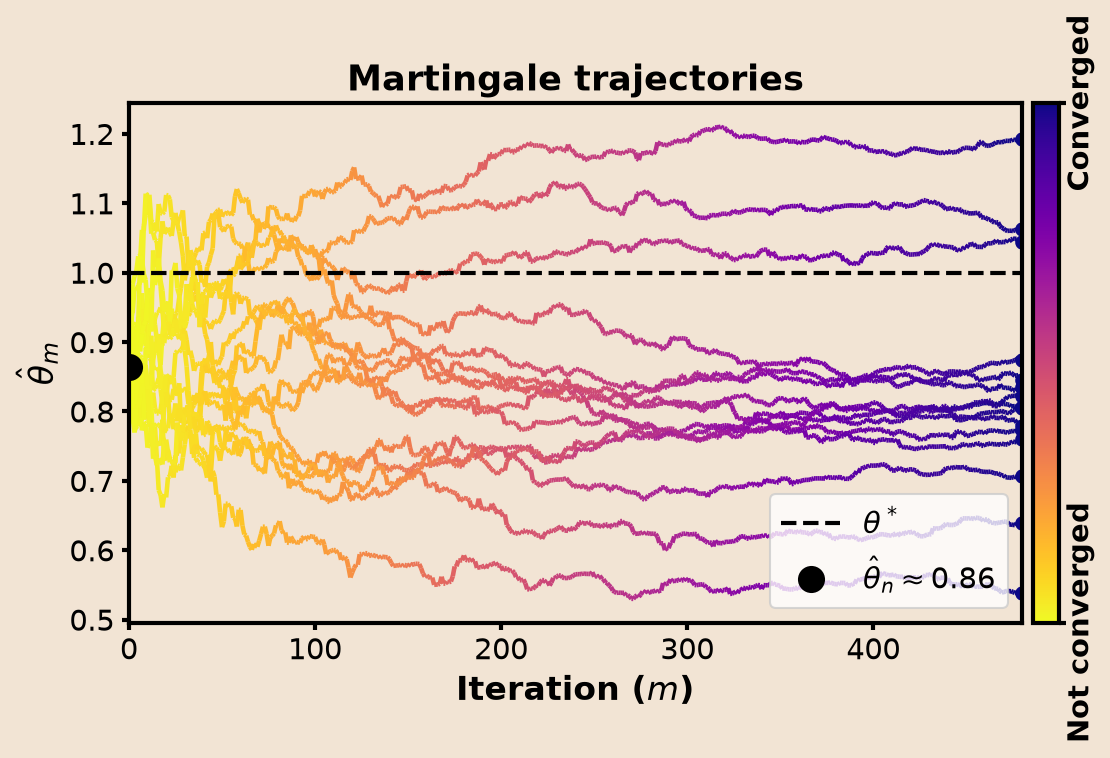
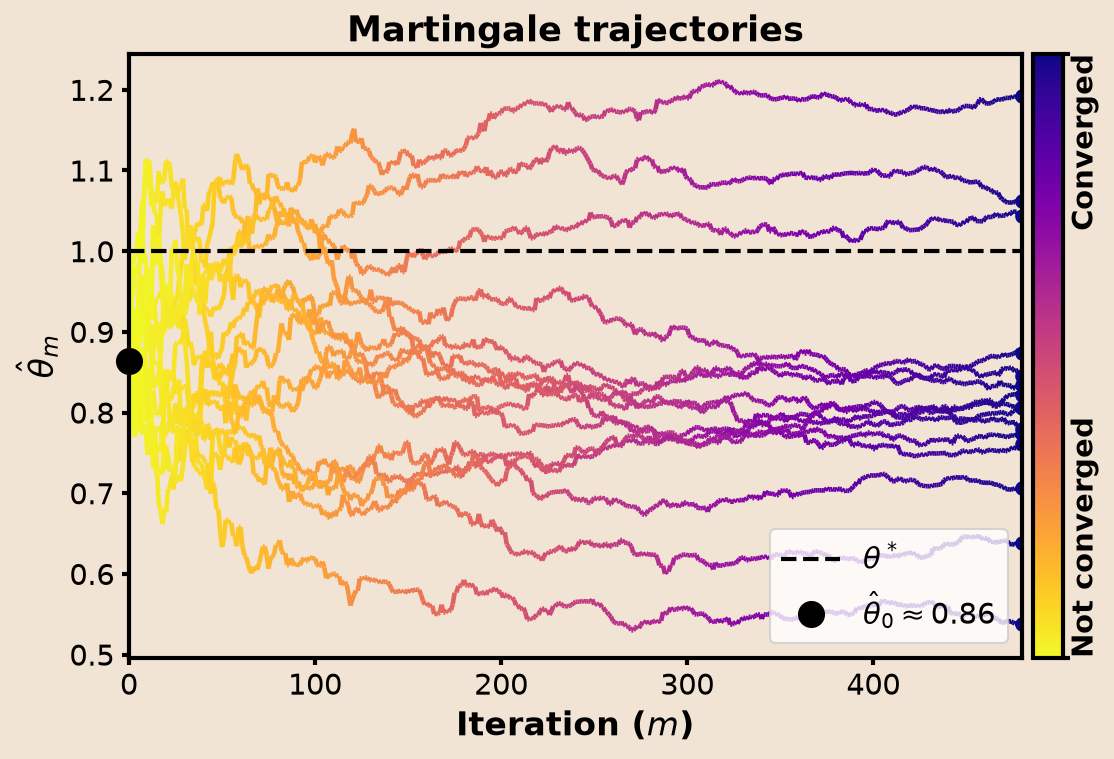
Fix initial-marker clipping and colorbar label overflow
- clip_on=False on the theta_hat_0 marker so it isn't cut off by the
  left axes spine at iteration 0.
- Colorbar tick labels now anchor toward the bar's interior (va="bottom"
  for the bottom label, va="top" for the top one) instead of centering
  on the tick, so they no longer poke past the top/bottom edge and
  inflate the saved figure with blank margin.
- Legend label updated to theta-hat_0, matching the 0-indexed iteration
  axis.

Changed region(s): [[0.0, 0.0, 1.0, 1.0]]

diff --git a/scripts/plot_results.py b/scripts/plot_results.py
@@ -73,15 +73,21 @@ def plot_trajectories(theta_traj, x_traj, theta_star, S_n, n, M, num_plot, path)
     ax.axhline(theta_star, color="black", linestyle="--", linewidth=2, label=r"$\theta^*$")
 
     theta_hat_n = float(theta_traj[0, 0])
-    ax.plot(0, theta_hat_n, "o", color="black", markersize=12, zorder=5,
-            label=rf"$\hat\theta_n \approx {theta_hat_n:.2f}$")
+    ax.plot(0, theta_hat_n, "o", color="black", markersize=12, zorder=5, clip_on=False,
+            label=rf"$\hat\theta_0 \approx {theta_hat_n:.2f}$")
 
     sm = plt.cm.ScalarMappable(cmap=cmap, norm=Normalize(0, 1))
     sm.set_array([])
     cbar = fig.colorbar(sm, ax=ax, pad=0.01)
     cbar.set_ticks([0, 1])
-    cbar.ax.set_yticklabels(["Not converged", "Converged"], rotation=90, va="center",
+    cbar.ax.set_yticklabels(["Not converged", "Converged"], rotation=90,
                              fontsize=14, fontweight="bold")
+    # Anchor each label toward the bar's interior instead of centering on the
+    # tick, so they don't poke past the top/bottom edge and inflate the
+    # saved figure's bounding box with blank margin.
+    labels = cbar.ax.get_yticklabels()
+    labels[0].set_va("bottom")
+    labels[1].set_va("top")
     cbar.ax.tick_params(width=2.0, pad=0)
     cbar.outline.set_linewidth(2.0)
 